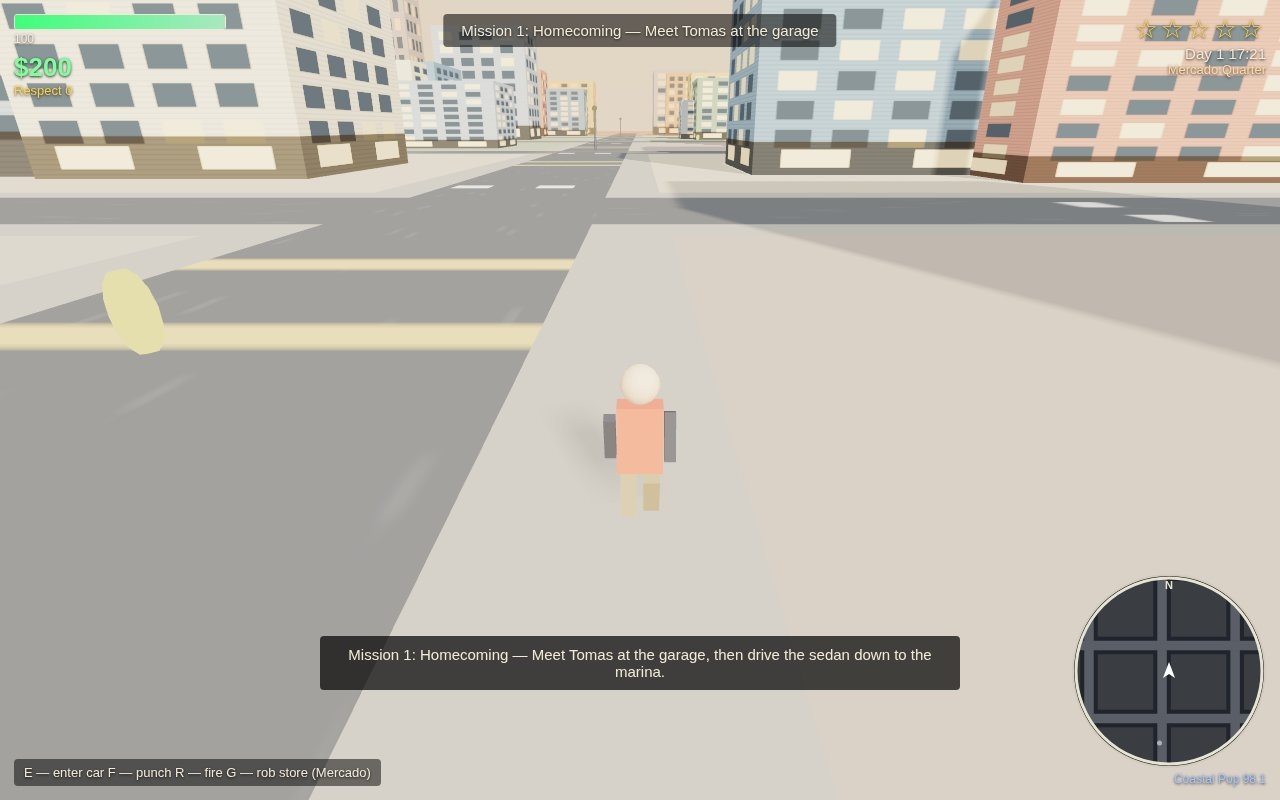
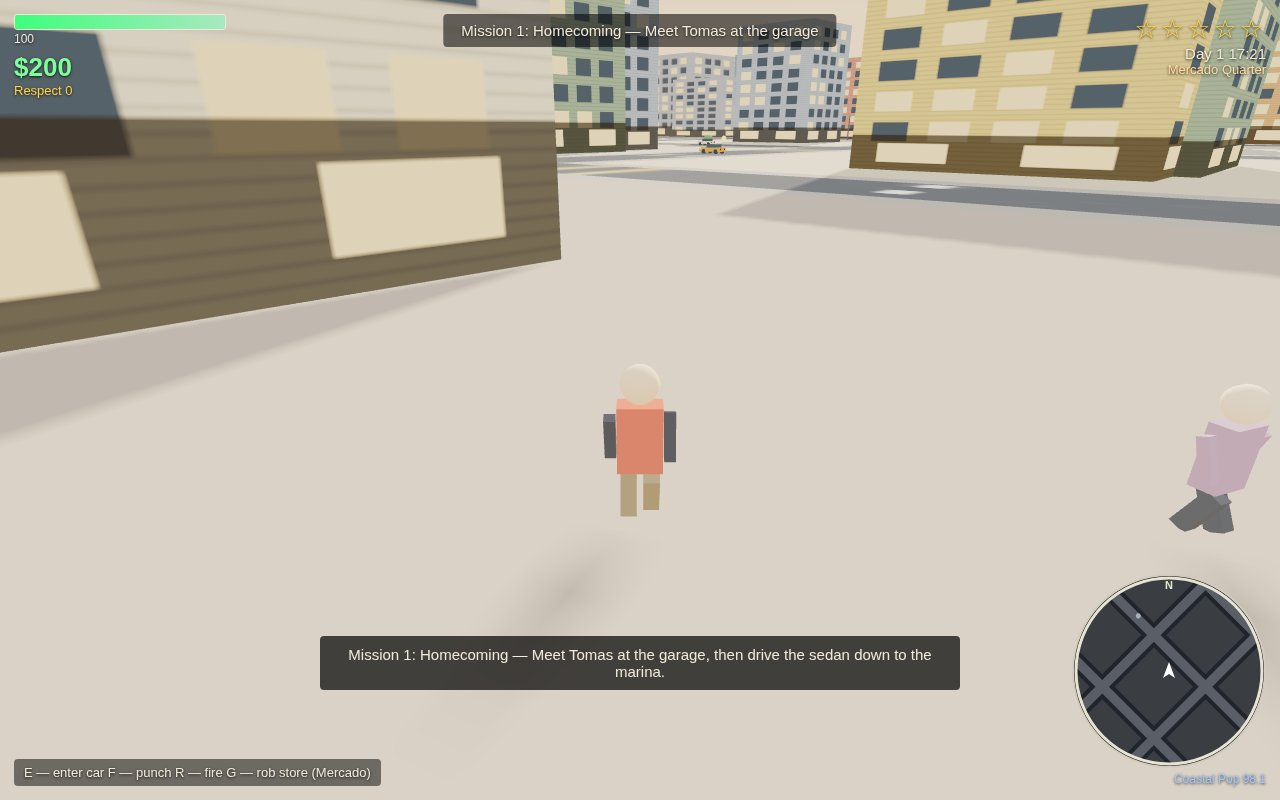
Onfoot restage: north up the avenue with peds ahead; witness moved into frame

diff --git a/game/src/shots.js b/game/src/shots.js
@@ -40,15 +40,15 @@ export function stageShot(world, mode) {
   }
 
   if (mode === 'onfoot') {
-    // Mara on foot in Mercado Quarter: diagonal view down the sidewalk
-    // so storefronts, the avenue and pedestrians share the frame.
+    // Mara on foot on the Mercado sidewalk, looking north up the avenue:
+    // road on the left, storefronts on the right, pedestrians ahead.
     world.startMission(0);
-    world.teleport(60, 9.5);
-    s.player.heading = Math.PI * 1.75; // south-west, down the sidewalk
-    s.camYaw = Math.PI * 1.75;
-    s.camPitch = 0.32;
+    world.teleport(9.5, 5);
+    s.player.heading = Math.PI; // north, along the sidewalk
+    s.camYaw = Math.PI;
+    s.camPitch = 0.38;
     s.clockMinutes = 17 * 60 + 20;
-    world.gatherPeds([[48, 4], [54, 14], [44, 16], [58, 2]]);
+    world.gatherPeds([[-9.5, -8], [9.5, -18], [-9.5, -12], [-9.5, -2], [3, -14], [-3, -20]]);
     input.testDown('KeyW'); // stroll forward
     return { holdKeys: ['KeyW'] };
   }
@@ -78,7 +78,7 @@ export function stageShot(world, mode) {
     s.camPitch = 0.3;
     s.clockMinutes = 18 * 60 + 5;
     world.giveWeapon('pistol', 24);
-    world.spawnWitness(344, -98);
+    world.spawnWitness(342, -112);
     // jump to the combat step and spawn the crew
     world.missions.stepIndex = 1;
     world.missions.foesLeft = 4;
